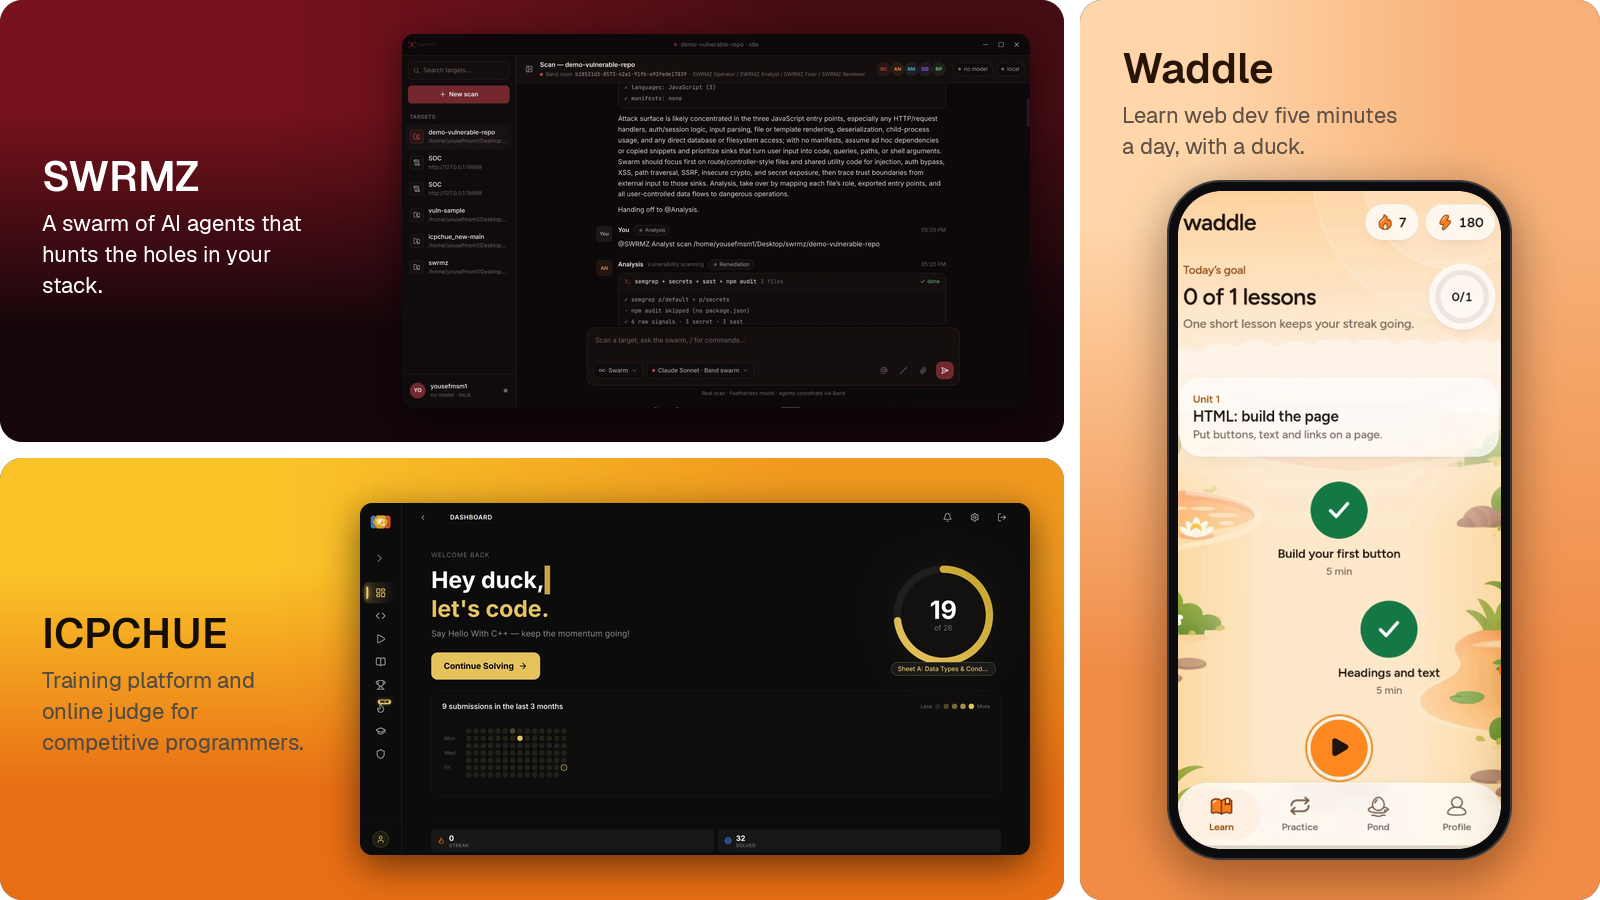
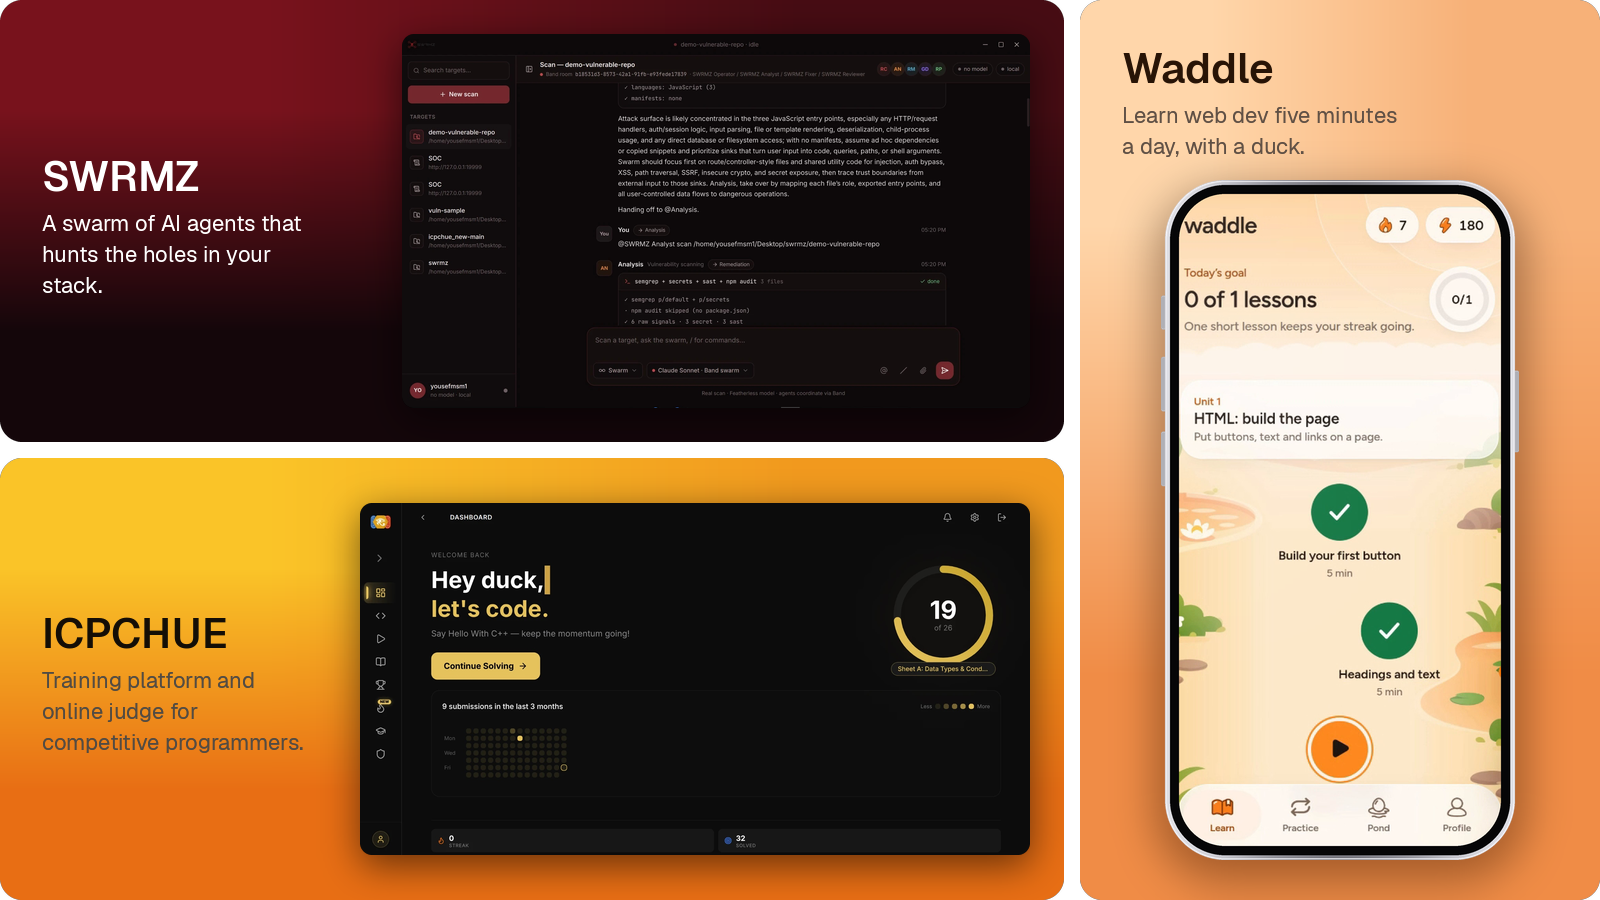
feat: premium titanium phone frame in showcase

diff --git a/scripts/make_showcase.py b/scripts/make_showcase.py
@@ -71,16 +71,50 @@ canvas.alpha_composite(panel(LEFT_W, half, (120, 18, 28), (20, 6, 10), swrmz, 34
 canvas.alpha_composite(panel(LEFT_W, half, (250, 196, 40), (232, 110, 20), icpc, 34, "ICPCHUE", "Training platform and online judge for competitive programmers.", (20, 14, 6)), (0, half + GAP))
 
 # phone: crop just the app screen out of the waddle video frame (below the notch, inside the bezel)
-screen = Image.open(WADDLE_FRAME).convert("RGB").crop((1196, 132, 1606, 968))
+screen = Image.open(WADDLE_FRAME).convert("RGB").crop((1196, 132, 1606, 963))
 PW, TOP = 520, 180
 ph_h = H - TOP - 40
-BZ, PR = 11, 54  # bezel width, outer corner radius; screen radius = PR - BZ keeps the bezel even
-ph_w = round(screen.width * (ph_h - 2 * BZ) / screen.height) + 2 * BZ
-phone = Image.new("RGBA", (ph_w, ph_h), (0, 0, 0, 0))
-phone.paste((58, 58, 62, 255), (0, 0), rr_mask((ph_w, ph_h), PR))  # thin metal rim
-body = Image.new("RGBA", (ph_w, ph_h), (12, 12, 14, 255))
-phone.paste(body, (0, 0), rr_mask((ph_w, ph_h), PR - 2, inset=2))
-phone.alpha_composite(rounded(screen.resize((ph_w - 2 * BZ, ph_h - 2 * BZ), Image.LANCZOS), PR - BZ), (BZ, BZ))
+
+
+def make_phone(screen, h, k=4):
+    """Titanium-frame phone drawn at k x scale, then downsampled for crisp anti-aliased edges."""
+    rim, bez, R0 = 5, 9, 60  # titanium rim width, black bezel width, outer radius
+    inset = rim + bez
+    w = round(screen.width * (h - 2 * inset) / screen.height) + 2 * inset
+    W_, H_, B = w * k, h * k, 4 * k  # B = room for side buttons
+    img = Image.new("RGBA", (W_ + 2 * B, H_), (0, 0, 0, 0))
+    d = ImageDraw.Draw(img)
+    metal = (176, 176, 182, 255)
+    # side buttons: action + volume on the left, power on the right
+    for y0, y1 in ((0.17, 0.22), (0.26, 0.34), (0.37, 0.45)):
+        d.rounded_rectangle((0, y0 * H_, B + 2 * k, y1 * H_), 2 * k, fill=metal)
+    d.rounded_rectangle((W_ + B - 2 * k, 0.28 * H_, W_ + 2 * B, 0.40 * H_), 2 * k, fill=metal)
+    # titanium frame: horizontal light-dark-light gradient, like brushed metal catching light
+    frame = Image.new("RGB", (5, 1))
+    frame.putdata([(214, 214, 220), (150, 150, 158), (120, 120, 128), (150, 150, 158), (214, 214, 220)])
+    frame = frame.resize((W_, H_), Image.BICUBIC).convert("RGBA")
+    m = Image.new("L", (W_, H_), 0)
+    ImageDraw.Draw(m).rounded_rectangle((0, 0, W_ - 1, H_ - 1), R0 * k, fill=255)
+    img.paste(frame, (B, 0), m)
+    d.rounded_rectangle((B + 1 * k, 1 * k, B + W_ - 1 * k, H_ - 1 * k), (R0 - 1) * k, outline=(235, 235, 240, 255), width=k)  # edge highlight
+    d.rounded_rectangle((B + rim * k, rim * k, B + W_ - rim * k, H_ - rim * k), (R0 - rim) * k, fill=(6, 6, 7, 255))  # glass bezel
+    sr = (R0 - inset) * k
+    scr = screen.resize((W_ - 2 * inset * k, H_ - 2 * inset * k), Image.LANCZOS).convert("RGBA")
+    sm = Image.new("L", scr.size, 0)
+    ImageDraw.Draw(sm).rounded_rectangle((0, 0, scr.width - 1, scr.height - 1), sr, fill=255)
+    img.paste(scr, (B + inset * k, inset * k), sm)
+    # faint diagonal glass sheen over the screen
+    sheen = Image.new("L", (2, 2))
+    sheen.putdata([22, 0, 0, 0])
+    sheen = sheen.resize(scr.size, Image.BILINEAR)
+    sheen.paste(0, (0, 0), Image.eval(sm, lambda v: 255 - v))
+    img.paste((255, 255, 255, 255), (B + inset * k, inset * k), sheen)
+    return img.resize((img.width // k, img.height // k), Image.LANCZOS), R0
+
+
+phone, PR = make_phone(screen, ph_h)
+ph_w = phone.width
+
 right = gradient(PW, H, (255, 214, 170), (240, 140, 70)).convert("RGBA")
 shadow = Image.new("RGBA", right.size, (0, 0, 0, 0))
 px, py = (PW - ph_w) // 2, TOP
